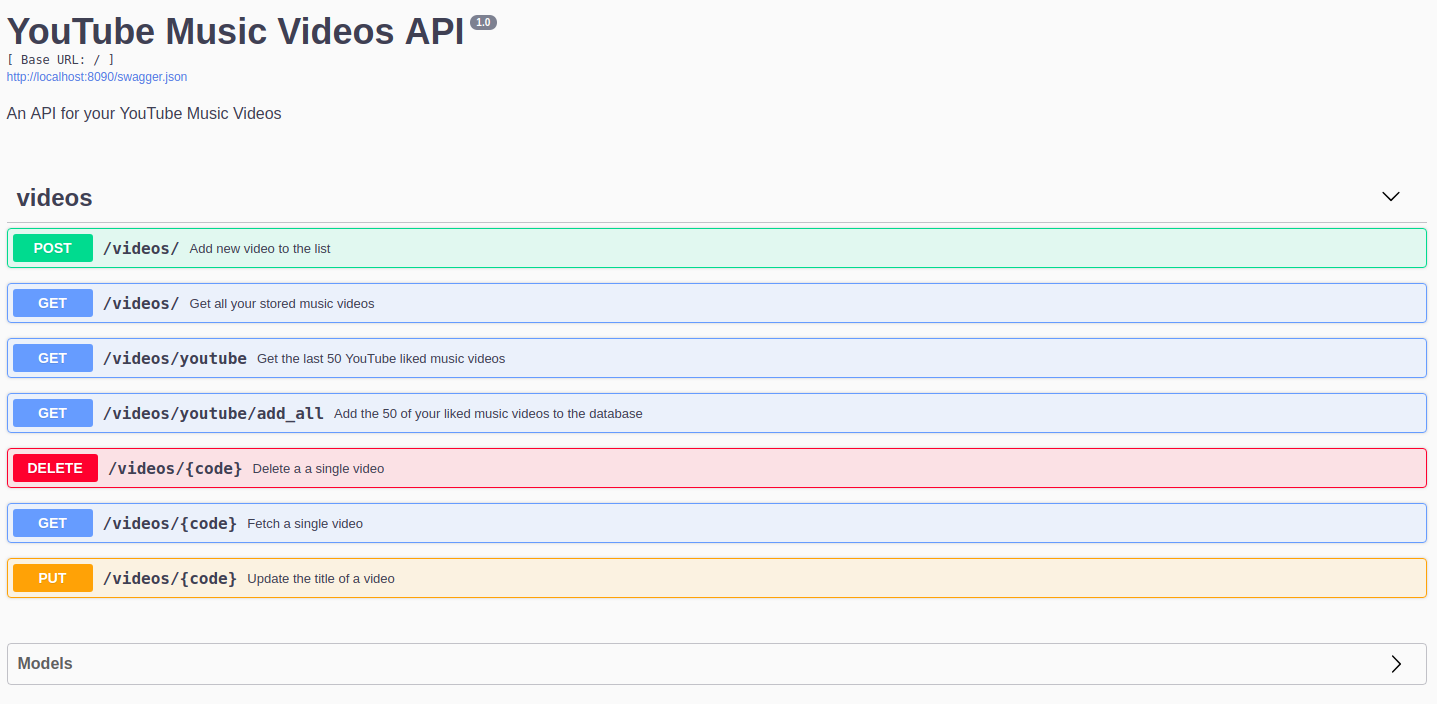
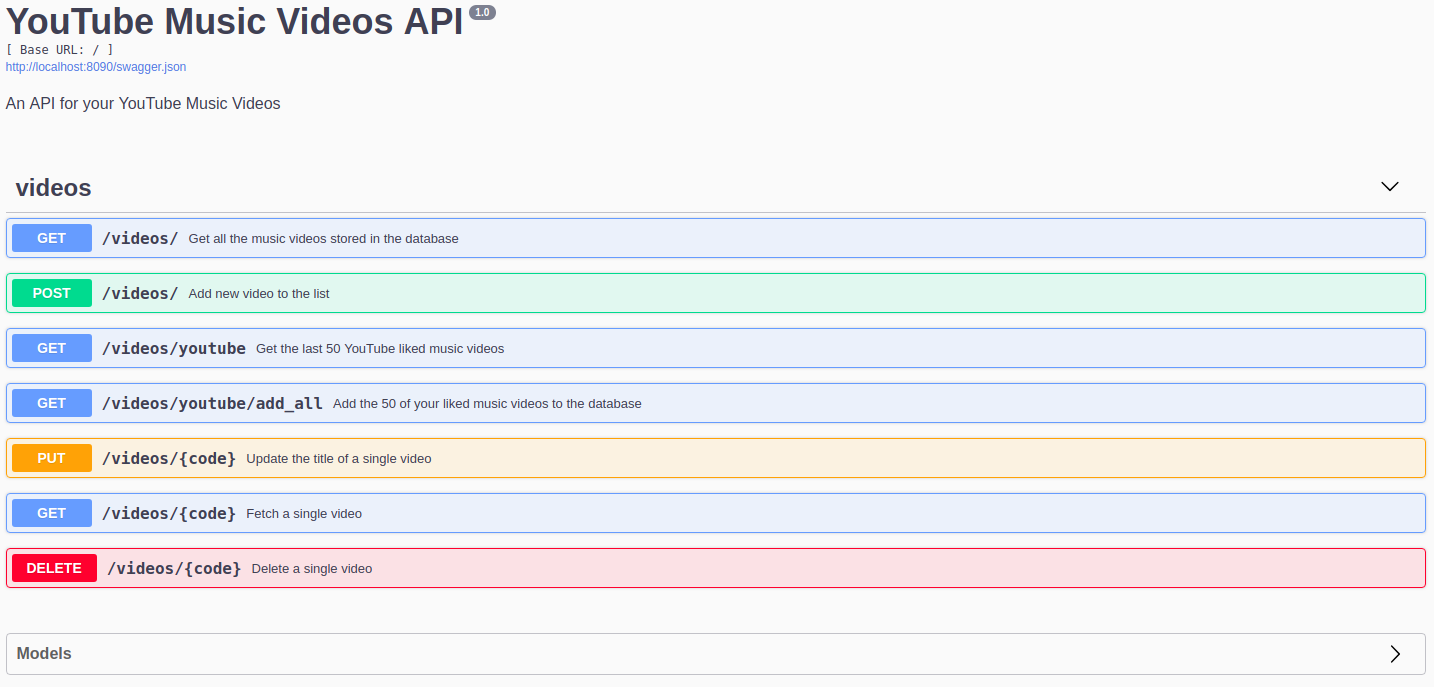
Screenshots and code updated

diff --git a/app.py b/app.py
@@ -86,11 +86,12 @@ parser = api.parser()
 parser.add_argument('title', type=str, required=True, help='The New Title')
 
 #API Routes
+#MAIN route
 @videos_api.route('/')
 class Videos(Resource):
     @api.doc(responses={404: 'Error', 200: 'Success'})
     def get(self):
-        '''Get all your stored music videos'''
+        '''Get all the music videos stored in the database'''
         videos_all = Vid.query.all()
         output = vids_schema.dump(videos_all).data
         return {'videos':output}, 200
@@ -112,46 +113,14 @@ class Videos(Resource):
             return {'result': 'video added'}, 200
         return {'result': 'video already on db'}, 404
 
-
-@videos_api.route('/<string:code>')
-@api.doc(responses={404: 'Code Not Found', 200:'Success'},
-         params={'code': 'The Video Code'})
-class Video(Resource):
-
-    '''Show a single item and lets you delete it'''
-    def get(self, code):
-        '''Fetch a single video'''
-        video = check_if_video_exists(code)
-        output = vid_schema.dump(video).data
-        return {'video':output}, 200
-
-    def delete(self, code):
-        '''Delete a a single video'''
-        video = check_if_video_exists(code)
-        db.session.delete(video)
-        db.session.commit()
-        return {'result':'deleted'}, 200
-
-    @api.doc(parser=parser)
-    def put(self, code):
-        '''Update the title of a video'''
-        args = parser.parse_args()
-        new_details = {'title':args['title'], 'code':code}
-        video = check_if_video_exists(code)
-
-        video.title = new_details['title']
-        db.session.commit()
-
-        return {'result':'updated'}, 200
-
-
+#YouTube routes
 @videos_api.route('/youtube')
 @api.doc(responses={404: 'Not able to fetch the YouTube API', 200: 'Success'})
 class YoutubeLikedVideos(Resource):
     def get(self):
         '''
         Get the last 50 YouTube liked music videos
-        Note: The session must be authorized for retrieving the list.
+        Note: The session must be authorized for retrieving the list
         To launch OAuth2 please visit http://localhost:8090/videos/youtube in your browser once.
         '''
         if 'credentials' not in flask.session:
@@ -189,6 +158,37 @@ class AddAllTheLikedVideos(Resource):
         db.session.commit()
         return {'result': 'videos added'}, 200
 
+# Single videos route
+@videos_api.route('/<string:code>')
+@api.doc(responses={404: 'Code Not Found', 200:'Success'},
+         params={'code': 'The Video Code'})
+class Video(Resource):
+
+    '''Show a single item and lets you delete it'''
+    def get(self, code):
+        '''Fetch a single video.'''
+        video = check_if_video_exists(code)
+        output = vid_schema.dump(video).data
+        return {'video':output}, 200
+
+    def delete(self, code):
+        '''Delete a single video'''
+        video = check_if_video_exists(code)
+        db.session.delete(video)
+        db.session.commit()
+        return {'result':'deleted'}, 200
+
+    @api.doc(parser=parser)
+    def put(self, code):
+        '''Update the title of a single video'''
+        args = parser.parse_args()
+        new_details = {'title':args['title'], 'code':code}
+        video = check_if_video_exists(code)
+
+        video.title = new_details['title']
+        db.session.commit()
+
+        return {'result':'updated'}, 200
 
 
 ################################################################################
